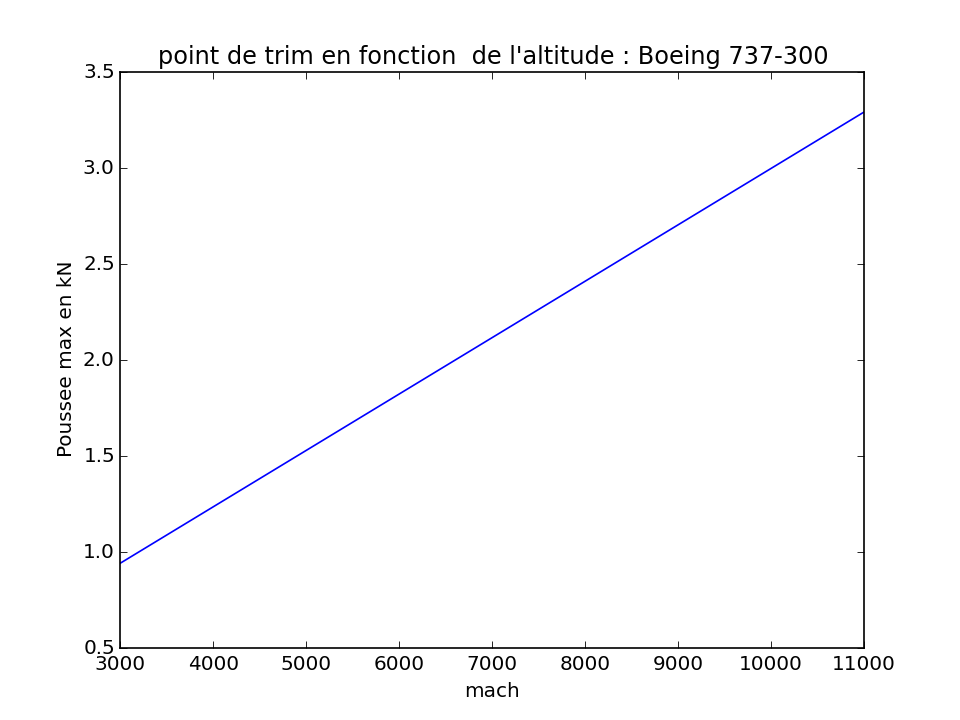
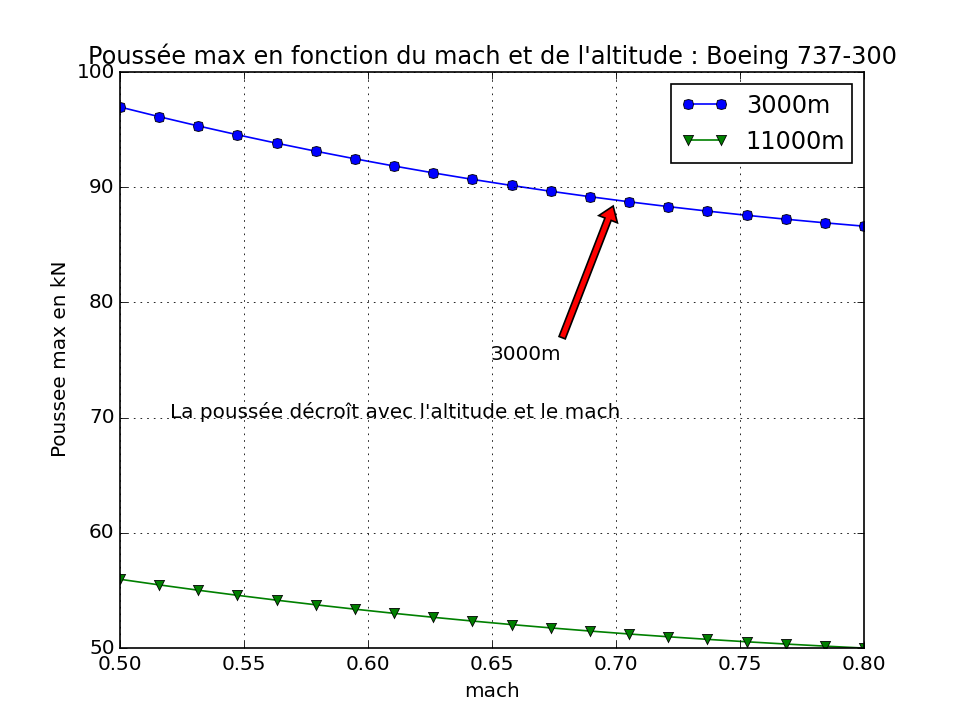
4.2.2

diff --git a/dynamic.py b/dynamic.py
@@ -10,7 +10,7 @@ import utils as ut
 
 ''' naming of state and input components '''
 # s_xxx indice des paramètres d'état =state dans le vecteur d'état X
-s_y, s_h, s_va, s_a, s_th, s_q, s_size = list(range(0, 7)) # ajout list() pour compatibilité avec python3
+s_y, s_h, s_va, s_a, s_th, s_q, s_size = list(range(0, 7))  # ajout list() pour compatibilité avec python3
 
 # en python 2 range est une liste et renvoie une liste, en python3 range est une class
 i_dm, i_dth, i_wy, i_wz, i_size = list(range(0, 5))
@@ -34,6 +34,22 @@ def propulsion_model(X, U, P):
     return P.F0 * math.pow(rho / rho0, 0.6) * (0.568 + 0.25 * math.pow(1.2 - mach, 3)) * U[i_dth]
 
 
+def trainee(h, mac, CDe, P):
+    p, rho, T = ut.isa(h)
+    va = va_of_mach(mac, h)
+    return 0.5 * rho * math.pow(va, 2) * P.S * CDe
+
+
+def coef_pousseel(X, U, P):
+    '''
+    :return: retourne coef tel que F = coef * deltath
+    '''
+    p, rho, T = ut.isa(X[s_h])
+    rho0 = 1.225
+    mach = get_mach(X[s_va], T)
+    return P.F0 * math.pow(rho / rho0, 0.6) * (0.568 + 0.25 * math.pow(1.2 - mach, 3))
+
+
 def propulsion_model_mach(X, U, P, mach):
     '''
     même fonction propulsion_model mais avec mach connu qui n'a donc pas à être calculé
@@ -48,6 +64,7 @@ def propulsion_model_mach(X, U, P, mach):
     return P.F0 * math.pow(rho / rho0, 0.6) * (0.568 + 0.25 * math.pow(1.2 - mach, 3)) * U[i_dth]
 
 
+# h non utilisé
 # def get_aero_ceofs(h, va, alpha, q, dphr, P):
 #     St_over_S = P.St/P.S
 #     CL0 = (St_over_S*0.25*P.CLat - P.CLa)*P.a0
@@ -70,6 +87,7 @@ def get_aero_ceofs(va, alpha, q, dphr, P):
     Cm = P.Cm0 - P.ms * P.CLa * (alpha - P.a0) + P.Cmq * P.lt / va * q + P.Cmd * dphr
     return CL, CD, Cm
 
+
 def get_aero_ceofs_ms(va, alpha, q, dphr, P, mms):
     St_over_S = P.St / P.S
     CL0 = (St_over_S * 0.25 * P.CLat - P.CLa) * P.a0
@@ -80,6 +98,7 @@ def get_aero_ceofs_ms(va, alpha, q, dphr, P, mms):
     CD = P.CD0 + P.ki * CL ** 2
     Cm = P.Cm0 - mms * P.CLa * (alpha - P.a0) + P.Cmq * P.lt / va * q + P.Cmd * dphr
     return CL, CD, Cm
+
 
 def get_aero_forces_and_moments(X, U, P):
     p, rho, T = ut.isa(X[s_h])

diff --git a/seance1.py b/seance1.py
@@ -20,7 +20,7 @@ P = dynamic.Param_737_300()
 def poussee():
     abs_mach = np.linspace(0.5, 0.8, 20)  # mach en abscissse : vecteur avec 20 points
     U = [0., 1.]  # [ delta_phr delta_thrust ]  poussé max donc thrust=1
-    h_list = [3000., 10000.]
+    h_list = [3000., 11000.]
     plt.title("Poussée max en fonction du mach et de l'altitude : " + P.name)
     plt.axis([0.5, 0.8, 50, 100])
     #####################################################################################
@@ -158,8 +158,8 @@ def dphre_of_alpha():
     plt.legend(loc=3)
     plt.axhline()
     plt.axvline()
-    plt.xlabel(r'Incidence $\alpha$')
-    plt.ylabel('$\delta$PHRe ')
+    plt.xlabel(r'Incidence $\alpha$(°)')
+    plt.ylabel('$\delta$ PHRe (rad) ')
     plt.savefig('sceance1/dphre_of_alpha.png', dpi=120)  # sauvegarde du graphe au format png dans le dossier images
     plt.show()
 
@@ -171,7 +171,7 @@ def dphre_of_alpha():
 # CL lorsque δPHR = δPHRe . Tracer CLe pour deux valeurs de la marge statique : ms = 0.2
 # et ms = 1. Conclusions ?
 
-def portance_equilibre():
+def portance_equilibre_of_alphae():
     ms_list = [0.2, 1]
     a_deg = [-10, 20]
     a_rad = np.array(a_deg) * np.pi / 180.
@@ -201,7 +201,7 @@ def portance_equilibre():
     plt.show()
 
 
-portance_equilibre()
+# portance_equilibre_of_alphae()
 
 # 3.2.6
 # Tracer la polaire équilibrée pour les deux valeurs précédentes de la marge statique. La
@@ -212,6 +212,8 @@ portance_equilibre()
 
 def fmax(P):
     return np.power(4 * P.ki *P.CD0, -0.5)
+
+print("fmax = ",fmax(P))
 
 def polaire_equilibre():
     ms_list = [0.2, 1]
@@ -249,4 +251,4 @@ def polaire_equilibre():
     plt.show()
 
 
-#polaire_equilibre()
+# polaire_equilibre()

diff --git a/seance2.py b/seance2.py
@@ -166,7 +166,27 @@ print("CL16 = ", CL16)
 
 
 # 4.2.2.4 Conclure quant à la technique de réglage de la vitesse de l’avion.
+
+# >>>> pour augmenter la vitesse, il faut diminuer CL donc alphae donc augmenter algébriquement
+# l'angle du PHR pour augmenter la portance ou diminuer la déportance.
+
 # 4.2.2.5 - Utiliser la valeur de CL obtenue ainsi que les graphiques tracés lors de la première séance
 # pour déterminer (approximativement) les valeurs de trim αe et δPHRe .
+
+print("La valeur de alphae obtenue via le graphique de la séance 1 CLe=f(alphae) est ", ut.rad_of_deg(6.7))
+print("La valeur de dphre obtenue via le graphique dphre = f(alphae) de la séance 1 en utilisant la valeur de alphae précédente est -0.21rad")
+
 # 4.2.2.6 - Comment obtenir la valeur de trim de la manette des gaz δth à partir de la polaire équilibrée ?
-#
+# connaissant CLe = 0.57 la polaire équilibrée donne CDe = 0.04  ; on utilise F = D poussee = trainee pour calculé deltath
+
+# calcul du coef de poussée tel que F = coef * deltath
+coef = dy.coef_pousseel(X,U,P)
+
+#calcul de la trainée
+CDe = 0.04
+D = dy.trainee(h,mac, CDe,P)
+
+# deltath
+deltath_polaire = D/coef
+
+print("deltath obtenu via la polaire équilibrée = ", deltath_polaire )
